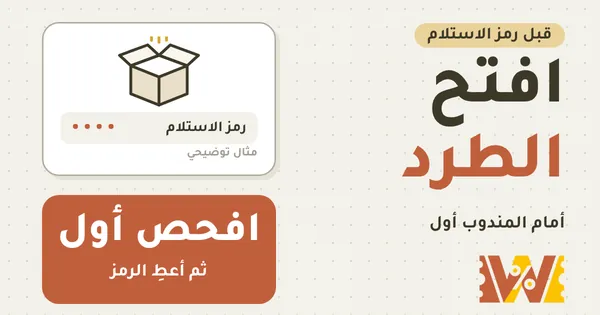
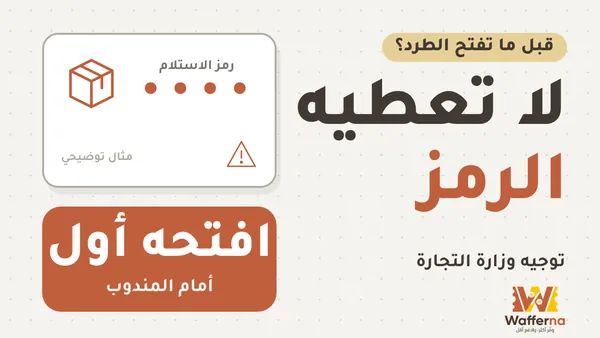
فيديو فتح الطرد: الغلاف الأصلي من القناة + مدة الفيديو (دقيقة)
Claude-Session: https://claude.ai/code/session_012yD6CvvQCGPrrAZAfyCBR5

diff --git a/videos.html b/videos.html
@@ -36,7 +36,7 @@ try{if(localStorage.getItem('wf_consent')==='1')wfConsentLoad()}catch(e){}
 <link rel="stylesheet" href="style.css?v=31">
 <script type="application/ld+json">{"@context": "https://schema.org", "@type": "CollectionPage", "name": "فيديوهات وفّرنا", "url": "https://wafferna.com/videos.html", "inLanguage": "ar", "description": "فيديوهات عربية قصيرة تشرح الجمارك والضريبة في الشراء من الخارج، والخصومات الوهمية، وعدّاد الجمعة البيضاء، والتجارب المجانية.", "mainEntity": {"@type": "ItemList", "itemListElement": [{"@type": "ListItem", "position": 1, "name": "افتح الطرد قبل ما تعطي المندوب رمز الاستلام", "url": "https://wafferna.com/video-open-parcel-before-code.html"}, {"@type": "ListItem", "position": 2, "name": "تقسيط تابي وتمارا: 100 ريال بس؟ شوفوا المجموع", "url": "https://wafferna.com/video-tabby-tamara.html"}, {"@type": "ListItem", "position": 3, "name": "طلبية 11.11 بـ230 ريال… ودفعت 282! احسب الجمارك والضريبة قبل لا تشتري", "url": "https://wafferna.com/video-1111-hidden-costs.html"}, {"@type": "ListItem", "position": 4, "name": "عدّاد الجمعة البيضاء يضحك عليك؟ قاعدة الـ24 ساعة قبل لا تشتري", "url": "https://wafferna.com/video-24h-rule.html"}, {"@type": "ListItem", "position": 5, "name": "انخصم مني فلوس على تجربة «مجانية»! وهذا اللي صار", "url": "https://wafferna.com/video-free-trial.html"}, {"@type": "ListItem", "position": 6, "name": "خصم وهمي في الجمعة البيضاء؟ 3 خطوات تكشفه", "url": "https://wafferna.com/video-fake-friday-discount.html"}, {"@type": "ListItem", "position": 7, "name": "ليش المنتج الرخيص يكلّفك أكثر؟ (مثال الطابعة)", "url": "https://wafferna.com/video-cheap-product.html"}, {"@type": "ListItem", "position": 8, "name": "ثانية! قبل ما تدفع: 3 أشياء تفرق", "url": "https://wafferna.com/video-before-you-pay.html"}, {"@type": "ListItem", "position": 9, "name": "حيل المتاجر اللي تخليك تشتري أكثر: دخلت أشتري شاحن وطلعت بثلاثة", "url": "https://wafferna.com/video-store-tricks.html"}, {"@type": "ListItem", "position": 10, "name": "كيف اعرف المتجر موثوق ولا وهمي؟ 3 علامات قبل الجمعة البيضاء", "url": "https://wafferna.com/video-trusted-store.html"}, {"@type": "ListItem", "position": 11, "name": "كيف اعرف الرابط مزيف؟ 3 فحوصات قبل ما تدفع", "url": "https://wafferna.com/video-fake-link-check.html"}]}}</script>
 <script type="application/ld+json">{"@context": "https://schema.org", "@type": "BreadcrumbList", "itemListElement": [{"@type": "ListItem", "position": 1, "name": "الرئيسية", "item": "https://wafferna.com/"}, {"@type": "ListItem", "position": 2, "name": "فيديوهات وفّرنا", "item": "https://wafferna.com/videos.html"}]}</script>
-<script type="application/ld+json">{"@context": "https://schema.org", "@type": "VideoObject", "name": "افتح الطرد قبل ما تعطي المندوب رمز الاستلام", "description": "افتح الطرد أمام المندوب قبل ما تعطيه رمز الاستلام، وتأكد أن الشحنة سليمة ومطابقة لطلبك. إذا فيه عيب أو عدم مطابقة يحق لك رفض الاستلام، حسب توجيه وزارة التجارة. القصة في الفيديو توضيحية.", "thumbnailUrl": ["https://wafferna.com/covers/video-open-parcel.jpg"], "uploadDate": "2026-11-12", "inLanguage": "ar", "embedUrl": "https://www.youtube-nocookie.com/embed/NFncZLuHPRs", "contentUrl": "https://www.youtube.com/watch?v=NFncZLuHPRs", "publisher": {"@type": "Organization", "name": "Wafferna"}, "keywords": "فتح الطرد قبل رمز الاستلام, رمز الاستلام للمندوب, فحص الشحنة قبل الاستلام, رفض استلام الشحنة, حقوق المستهلك في التوصيل, وزارة التجارة شركات الشحن"}</script>
+<script type="application/ld+json">{"@context": "https://schema.org", "@type": "VideoObject", "name": "افتح الطرد قبل ما تعطي المندوب رمز الاستلام", "description": "افتح الطرد أمام المندوب قبل ما تعطيه رمز الاستلام، وتأكد أن الشحنة سليمة ومطابقة لطلبك. إذا فيه عيب أو عدم مطابقة يحق لك رفض الاستلام، حسب توجيه وزارة التجارة. القصة في الفيديو توضيحية.", "thumbnailUrl": ["https://wafferna.com/covers/video-open-parcel.jpg"], "uploadDate": "2026-11-12", "duration": "PT1M", "inLanguage": "ar", "embedUrl": "https://www.youtube-nocookie.com/embed/NFncZLuHPRs", "contentUrl": "https://www.youtube.com/watch?v=NFncZLuHPRs", "publisher": {"@type": "Organization", "name": "Wafferna"}, "keywords": "فتح الطرد قبل رمز الاستلام, رمز الاستلام للمندوب, فحص الشحنة قبل الاستلام, رفض استلام الشحنة, حقوق المستهلك في التوصيل, وزارة التجارة شركات الشحن"}</script>
 <script type="application/ld+json">{"@context": "https://schema.org", "@type": "VideoObject", "name": "تقسيط تابي وتمارا: 100 ريال بس؟ شوفوا المجموع", "description": "تقسيط تابي وتمارا يقسّم السعر على 4، والقسط يبان صغيراً. لكن لما تقسّطون أكثر من غرض، الأقساط تتجمع كل شهر. مثال: كيبورد وماوس وشاشة مجموع أقساطها 350 ريال شهرياً، و3 أشياء قبل ما تقسّطون. الأرقام مثال توضيحي.", "thumbnailUrl": ["https://wafferna.com/covers/video-bnpl-total.jpg"], "uploadDate": "2026-11-06T18:00:00+03:00", "duration": "PT1M15S", "inLanguage": "ar", "embedUrl": "https://www.youtube-nocookie.com/embed/MzkIcQkA8LA", "contentUrl": "https://www.youtube.com/watch?v=MzkIcQkA8LA", "publisher": {"@type": "Organization", "name": "Wafferna"}}</script>
 <script type="application/ld+json">{"@context": "https://schema.org", "@type": "VideoObject", "name": "طلبية 11.11 بـ230 ريال… ودفعت 282! احسب الجمارك والضريبة قبل لا تشتري", "description": "طلبت من متجر خارجي في 11.11 وكنت متأكد إني بدفع 230 ريال… وطلع الإجمالي 282. يشرح الفيديو ليش تنضاف ضريبة القيمة المضافة ورسوم المعالجة على الشحن الدولي، وكيف تحسبها قبل الدفع. الأرقام مثال توضيحي.", "thumbnailUrl": ["https://wafferna.com/covers/video-1111-hidden-costs.jpg"], "uploadDate": "2026-11-01T12:00:00+03:00", "duration": "PT1M14S", "inLanguage": "ar", "embedUrl": "https://www.youtube-nocookie.com/embed/P7RbY8381D4", "contentUrl": "https://www.youtube.com/watch?v=P7RbY8381D4", "keywords": "11.11, جمارك الشحن الدولي, ضريبة الشراء من علي اكسبرس, حاسبة الجمارك, رسوم المعالجة", "publisher": {"@type": "Organization", "name": "Wafferna"}}</script>
 <script type="application/ld+json">{"@context": "https://schema.org", "@type": "VideoObject", "name": "عدّاد الجمعة البيضاء يضحك عليك؟ قاعدة الـ24 ساعة قبل لا تشتري", "description": "العدّاد التنازلي في عروض الجمعة البيضاء يضغط عليك تشتري بسرعة، وهو لا يعني دائماً أن العرض سينتهي فعلاً. يشرح الفيديو قاعدة الـ24 ساعة: أجّل قرار الشراء يوماً وقارن السعر قبل لا تدفع.", "thumbnailUrl": ["https://wafferna.com/covers/video-24h-rule.jpg"], "uploadDate": "2026-11-02T12:00:00+03:00", "duration": "PT58S", "inLanguage": "ar", "embedUrl": "https://www.youtube-nocookie.com/embed/w4xvbnuEJbs", "contentUrl": "https://www.youtube.com/watch?v=w4xvbnuEJbs", "keywords": "الجمعة البيضاء, عداد تنازلي, عروض وهمية, قاعدة 24 ساعة, التسوق الذكي", "publisher": {"@type": "Organization", "name": "Wafferna"}}</script>
@@ -82,9 +82,9 @@ try{if(localStorage.getItem('wf_consent')==='1')wfConsentLoad()}catch(e){}
   <div class="vgrid">
   <section class="vsec vcard vfeature">
   <div class="vid" data-id="NFncZLuHPRs" data-t="افتح الطرد قبل ما تعطي المندوب رمز الاستلام">
-    <button type="button" class="vid-btn" aria-label="تشغيل الفيديو: افتح الطرد قبل ما تعطي المندوب رمز الاستلام"><img src="covers/video-open-parcel-600.webp" srcset="covers/video-open-parcel-600.webp 600w, covers/video-open-parcel-800.webp 800w, covers/video-open-parcel-1000.webp 1000w" sizes="(max-width:760px) 92vw, 728px" width="1200" height="630" alt="غلاف فيديو: افتح الطرد أمام المندوب وافحصه أول ثم أعطِ رمز الاستلام" fetchpriority="high" decoding="async"><span class="vid-play" aria-hidden="true"></span></button>
+    <button type="button" class="vid-btn" aria-label="تشغيل الفيديو: افتح الطرد قبل ما تعطي المندوب رمز الاستلام"><img src="covers/video-open-parcel-600.webp" srcset="covers/video-open-parcel-600.webp 600w, covers/video-open-parcel-800.webp 800w, covers/video-open-parcel-1000.webp 1000w" sizes="(max-width:760px) 92vw, 728px" width="1280" height="720" alt="غلاف فيديو: لا تعطيه رمز الاستلام قبل ما تفتح الطرد، افتحه أول أمام المندوب، توجيه وزارة التجارة" fetchpriority="high" decoding="async"><span class="vid-play" aria-hidden="true"></span></button>
   </div>
-    <div class="vbody"><span class="tag">فيديو · جديد</span><h2>افتح الطرد قبل ما تعطي المندوب رمز الاستلام</h2></div>
+    <div class="vbody"><span class="tag">فيديو · دقيقة</span><h2>افتح الطرد قبل ما تعطي المندوب رمز الاستلام</h2></div>
     <div class="vstub"><p class="note"><a href="https://www.youtube.com/watch?v=NFncZLuHPRs" rel="noopener" target="_blank">شاهده على يوتيوب</a>.</p></div>
     <a class="vlink" href="video-open-parcel-before-code.html">الملخص والروابط</a>
   </section>

diff --git a/video-open-parcel-before-code.html b/video-open-parcel-before-code.html
@@ -43,7 +43,7 @@ try{if(localStorage.getItem('wf_consent')==='1')wfConsentLoad()}catch(e){}
 <meta property="og:image" content="https://wafferna.com/covers/video-open-parcel.jpg">
 <meta property="og:image:width" content="1200">
 <meta property="og:image:height" content="630">
-<script type="application/ld+json">{"@context": "https://schema.org", "@type": "VideoObject", "name": "افتح الطرد قبل ما تعطي المندوب رمز الاستلام", "description": "افتح الطرد أمام المندوب قبل ما تعطيه رمز الاستلام، وتأكد أن الشحنة سليمة ومطابقة لطلبك. إذا فيه عيب أو عدم مطابقة يحق لك رفض الاستلام، حسب توجيه وزارة التجارة. القصة في الفيديو توضيحية.", "thumbnailUrl": ["https://wafferna.com/covers/video-open-parcel.jpg"], "uploadDate": "2026-11-12", "inLanguage": "ar", "embedUrl": "https://www.youtube-nocookie.com/embed/NFncZLuHPRs", "contentUrl": "https://www.youtube.com/watch?v=NFncZLuHPRs", "publisher": {"@type": "Organization", "name": "Wafferna"}, "keywords": "فتح الطرد قبل رمز الاستلام, رمز الاستلام للمندوب, فحص الشحنة قبل الاستلام, رفض استلام الشحنة, حقوق المستهلك في التوصيل, وزارة التجارة شركات الشحن", "url": "https://wafferna.com/video-open-parcel-before-code.html"}</script>
+<script type="application/ld+json">{"@context": "https://schema.org", "@type": "VideoObject", "name": "افتح الطرد قبل ما تعطي المندوب رمز الاستلام", "description": "افتح الطرد أمام المندوب قبل ما تعطيه رمز الاستلام، وتأكد أن الشحنة سليمة ومطابقة لطلبك. إذا فيه عيب أو عدم مطابقة يحق لك رفض الاستلام، حسب توجيه وزارة التجارة. القصة في الفيديو توضيحية.", "thumbnailUrl": ["https://wafferna.com/covers/video-open-parcel.jpg"], "uploadDate": "2026-11-12", "duration": "PT1M", "inLanguage": "ar", "embedUrl": "https://www.youtube-nocookie.com/embed/NFncZLuHPRs", "contentUrl": "https://www.youtube.com/watch?v=NFncZLuHPRs", "publisher": {"@type": "Organization", "name": "Wafferna"}, "keywords": "فتح الطرد قبل رمز الاستلام, رمز الاستلام للمندوب, فحص الشحنة قبل الاستلام, رفض استلام الشحنة, حقوق المستهلك في التوصيل, وزارة التجارة شركات الشحن", "url": "https://wafferna.com/video-open-parcel-before-code.html"}</script>
 <script type="application/ld+json">{"@context": "https://schema.org", "@type": "BreadcrumbList", "itemListElement": [{"@type": "ListItem", "position": 1, "name": "الرئيسية", "item": "https://wafferna.com/"}, {"@type": "ListItem", "position": 2, "name": "فيديوهات وفّرنا", "item": "https://wafferna.com/videos.html"}, {"@type": "ListItem", "position": 3, "name": "افتح الطرد قبل ما تعطي المندوب رمز الاستلام", "item": "https://wafferna.com/video-open-parcel-before-code.html"}]}</script>
 <style>.vid{position:relative;aspect-ratio:16/9;border-radius:18px;overflow:hidden;background:#E9DFC9;margin-top:14px;border:1px solid var(--line)}.vid-btn,.vid iframe{position:absolute;inset:0;width:100%;height:100%;border:0;padding:0;background:none;cursor:pointer}.vid-btn img{width:100%;height:100%;object-fit:cover;display:block}.vid-play{position:absolute;left:50%;top:50%;width:76px;height:76px;margin:-38px 0 0 -38px;border-radius:50%;background:#C15F3C;box-shadow:0 8px 24px rgba(61,57,41,.35)}.vid-play:after{content:"";position:absolute;left:30px;top:22px;border-style:solid;border-width:16px 0 16px 26px;border-color:transparent transparent transparent #EEECE2}.vid-btn:focus-visible{outline:3px solid #C15F3C;outline-offset:-3px}.vp-sum{background:var(--card);border:1px solid var(--line);border-radius:20px;padding:6px 20px 16px;margin-top:22px}.vp-sum h2{margin-top:14px}.srcs a{display:inline-block;padding:10px 0;min-height:44px;line-height:24px}.srcs ul{margin:0;padding-inline-start:20px}.vp-more{display:grid;grid-template-columns:repeat(3,minmax(0,1fr));gap:12px;margin-top:12px}.vp-card{display:flex;flex-direction:column;background:#E9DFC9;color:#3D3929;border:1px solid rgba(61,57,41,.14);border-radius:18px;overflow:hidden;text-decoration:none;box-shadow:0 10px 20px -14px rgba(61,57,41,.5)}.vp-card img{width:100%;height:auto;aspect-ratio:16/9;object-fit:cover;display:block}.vp-card b{display:-webkit-box;-webkit-line-clamp:3;-webkit-box-orient:vertical;overflow:hidden;padding:10px 12px 12px;font-size:14px;line-height:1.6}.vp-card:hover{border-color:var(--accent)}.vp-back{display:inline-flex;align-items:center;min-height:48px;margin-top:18px;font-weight:800}@media(max-width:700px){.vp-more{grid-template-columns:1fr}.vp-card{flex-direction:row}.vp-card img{width:40%;aspect-ratio:16/9}.vp-card b{padding:8px 12px;font-size:13.5px}}</style>
 </head>
@@ -78,9 +78,9 @@ try{if(localStorage.getItem('wf_consent')==='1')wfConsentLoad()}catch(e){}
   <h1>افتح الطرد قبل ما تعطي المندوب رمز الاستلام</h1>
   <p class="meta">فريق وفّرنا · فيديو قصير · آخر تحديث: 12 نوفمبر 2026</p>
   <div class="vid" data-id="NFncZLuHPRs" data-t="افتح الطرد قبل ما تعطي المندوب رمز الاستلام">
-    <button type="button" class="vid-btn" aria-label="تشغيل الفيديو: افتح الطرد قبل ما تعطي المندوب رمز الاستلام"><img src="/covers/video-open-parcel-600.webp" srcset="/covers/video-open-parcel-600.webp 600w, /covers/video-open-parcel-800.webp 800w, /covers/video-open-parcel-1000.webp 1000w" sizes="(max-width:760px) 92vw, 728px" width="1200" height="630" alt="غلاف فيديو: افتح الطرد أمام المندوب وافحصه أول ثم أعطِ رمز الاستلام" fetchpriority="high" decoding="async"><span class="vid-play" aria-hidden="true"></span></button>
+    <button type="button" class="vid-btn" aria-label="تشغيل الفيديو: افتح الطرد قبل ما تعطي المندوب رمز الاستلام"><img src="/covers/video-open-parcel-600.webp" srcset="/covers/video-open-parcel-600.webp 600w, /covers/video-open-parcel-800.webp 800w, /covers/video-open-parcel-1000.webp 1000w" sizes="(max-width:760px) 92vw, 728px" width="1280" height="720" alt="غلاف فيديو: لا تعطيه رمز الاستلام قبل ما تفتح الطرد، افتحه أول أمام المندوب، توجيه وزارة التجارة" fetchpriority="high" decoding="async"><span class="vid-play" aria-hidden="true"></span></button>
   </div>
-  <p class="note"><a href="https://www.youtube.com/watch?v=NFncZLuHPRs" rel="noopener" target="_blank">شاهده على يوتيوب</a>.</p>
+  <p class="note">مدة الفيديو: دقيقة. <a href="https://www.youtube.com/watch?v=NFncZLuHPRs" rel="noopener" target="_blank">شاهده على يوتيوب</a>.</p>
   <section class="vp-sum">
   <h2>ملخص الفيديو</h2>
   <p>رمز الاستلام اللي يطلبه المندوب ليس مجرد رقم: إعطاؤه يعني أنك استلمت طلبك سليماً. لذلك افتح الطرد وافحصه أمام المندوب أولاً. هنا ملخص الفيديو، ومعه ما وجّهت به وزارة التجارة شركات الشحن في مايو 2026.</p>

diff --git a/video-fake-link-check.html b/video-fake-link-check.html
@@ -92,7 +92,7 @@ try{if(localStorage.getItem('wf_consent')==='1')wfConsentLoad()}catch(e){}
   <p class="note"><b>اقرأ أكثر:</b> <a href="fake-stores.html">كيف تعرف المتاجر الوهمية</a> · <a href="safe-payment.html">الدفع الآمن</a> · <a href="video-trusted-store.html">فيديو: المتجر موثوق ولا وهمي</a></p>
   </section>
   <h2>فيديوهات أخرى</h2>
-  <div class="vp-more"><a class="vp-card" href="/video-open-parcel-before-code.html"><img src="/covers/video-open-parcel-600.webp" srcset="/covers/video-open-parcel-600.webp 600w, /covers/video-open-parcel-800.webp 800w, /covers/video-open-parcel-1000.webp 1000w" sizes="(max-width:700px) 40vw, 240px" width="1200" height="630" alt="غلاف فيديو: افتح الطرد أمام المندوب وافحصه أول ثم أعطِ رمز الاستلام" loading="lazy" decoding="async"><b>افتح الطرد قبل ما تعطي المندوب رمز الاستلام</b></a><a class="vp-card" href="/video-tabby-tamara.html"><img src="/covers/video-bnpl-total-600.webp" srcset="/covers/video-bnpl-total-600.webp 600w, /covers/video-bnpl-total-800.webp 800w, /covers/video-bnpl-total-1000.webp 1000w" sizes="(max-width:700px) 40vw, 240px" width="1200" height="630" alt="غلاف فيديو: أقساط كيبورد 100 وماوس 50 وشاشة 200 مجموعها 350 ريال كل شهر" loading="lazy" decoding="async"><b>تقسيط تابي وتمارا: 100 ريال بس؟ شوفوا المجموع</b></a><a class="vp-card" href="/video-1111-hidden-costs.html"><img src="/covers/video-1111-hidden-costs-600.webp" srcset="/covers/video-1111-hidden-costs-600.webp 600w, /covers/video-1111-hidden-costs-800.webp 800w, /covers/video-1111-hidden-costs-1000.webp 960w" sizes="(max-width:700px) 40vw, 240px" width="960" height="540" alt="غلاف فيديو: طلبية 11.11 بـ230 ريال… ودفعت 282! احسب الجمارك والضريبة قبل لا تشتري" loading="lazy" decoding="async"><b>طلبية 11.11 بـ230 ريال… ودفعت 282! احسب الجمارك والضريبة قبل لا تشتري</b></a></div>
+  <div class="vp-more"><a class="vp-card" href="/video-open-parcel-before-code.html"><img src="/covers/video-open-parcel-600.webp" srcset="/covers/video-open-parcel-600.webp 600w, /covers/video-open-parcel-800.webp 800w, /covers/video-open-parcel-1000.webp 1000w" sizes="(max-width:700px) 40vw, 240px" width="1280" height="720" alt="غلاف فيديو: لا تعطيه رمز الاستلام قبل ما تفتح الطرد، افتحه أول أمام المندوب، توجيه وزارة التجارة" loading="lazy" decoding="async"><b>افتح الطرد قبل ما تعطي المندوب رمز الاستلام</b></a><a class="vp-card" href="/video-tabby-tamara.html"><img src="/covers/video-bnpl-total-600.webp" srcset="/covers/video-bnpl-total-600.webp 600w, /covers/video-bnpl-total-800.webp 800w, /covers/video-bnpl-total-1000.webp 1000w" sizes="(max-width:700px) 40vw, 240px" width="1200" height="630" alt="غلاف فيديو: أقساط كيبورد 100 وماوس 50 وشاشة 200 مجموعها 350 ريال كل شهر" loading="lazy" decoding="async"><b>تقسيط تابي وتمارا: 100 ريال بس؟ شوفوا المجموع</b></a><a class="vp-card" href="/video-1111-hidden-costs.html"><img src="/covers/video-1111-hidden-costs-600.webp" srcset="/covers/video-1111-hidden-costs-600.webp 600w, /covers/video-1111-hidden-costs-800.webp 800w, /covers/video-1111-hidden-costs-1000.webp 960w" sizes="(max-width:700px) 40vw, 240px" width="960" height="540" alt="غلاف فيديو: طلبية 11.11 بـ230 ريال… ودفعت 282! احسب الجمارك والضريبة قبل لا تشتري" loading="lazy" decoding="async"><b>طلبية 11.11 بـ230 ريال… ودفعت 282! احسب الجمارك والضريبة قبل لا تشتري</b></a></div>
   <a class="vp-back" href="/videos.html">← كل الفيديوهات</a>
 </main>
 <footer>

diff --git a/video-trusted-store.html b/video-trusted-store.html
@@ -92,7 +92,7 @@ try{if(localStorage.getItem('wf_consent')==='1')wfConsentLoad()}catch(e){}
   <p class="note"><b>اقرأ أكثر:</b> <a href="safe-payment.html">الدفع الآمن</a> · <a href="white-friday-11-11-2026.html">دليل الجمعة البيضاء</a> · <a href="video-open-parcel-before-code.html">فيديو: افتح الطرد قبل رمز الاستلام</a></p>
   </section>
   <h2>فيديوهات أخرى</h2>
-  <div class="vp-more"><a class="vp-card" href="/video-fake-link-check.html"><img src="/covers/video-fake-link-check-600.webp" srcset="/covers/video-fake-link-check-600.webp 600w, /covers/video-fake-link-check-800.webp 800w, /covers/video-fake-link-check-1000.webp 1000w" sizes="(max-width:700px) 40vw, 240px" width="1280" height="720" alt="غلاف فيديو: رابط حقيقي my-shop.com ورابط مزيف my-shpo.com، لا تضغط قبل ما تفحص" loading="lazy" decoding="async"><b>كيف اعرف الرابط مزيف؟ 3 فحوصات قبل ما تدفع</b></a><a class="vp-card" href="/video-open-parcel-before-code.html"><img src="/covers/video-open-parcel-600.webp" srcset="/covers/video-open-parcel-600.webp 600w, /covers/video-open-parcel-800.webp 800w, /covers/video-open-parcel-1000.webp 1000w" sizes="(max-width:700px) 40vw, 240px" width="1200" height="630" alt="غلاف فيديو: افتح الطرد أمام المندوب وافحصه أول ثم أعطِ رمز الاستلام" loading="lazy" decoding="async"><b>افتح الطرد قبل ما تعطي المندوب رمز الاستلام</b></a><a class="vp-card" href="/video-tabby-tamara.html"><img src="/covers/video-bnpl-total-600.webp" srcset="/covers/video-bnpl-total-600.webp 600w, /covers/video-bnpl-total-800.webp 800w, /covers/video-bnpl-total-1000.webp 1000w" sizes="(max-width:700px) 40vw, 240px" width="1200" height="630" alt="غلاف فيديو: أقساط كيبورد 100 وماوس 50 وشاشة 200 مجموعها 350 ريال كل شهر" loading="lazy" decoding="async"><b>تقسيط تابي وتمارا: 100 ريال بس؟ شوفوا المجموع</b></a></div>
+  <div class="vp-more"><a class="vp-card" href="/video-fake-link-check.html"><img src="/covers/video-fake-link-check-600.webp" srcset="/covers/video-fake-link-check-600.webp 600w, /covers/video-fake-link-check-800.webp 800w, /covers/video-fake-link-check-1000.webp 1000w" sizes="(max-width:700px) 40vw, 240px" width="1280" height="720" alt="غلاف فيديو: رابط حقيقي my-shop.com ورابط مزيف my-shpo.com، لا تضغط قبل ما تفحص" loading="lazy" decoding="async"><b>كيف اعرف الرابط مزيف؟ 3 فحوصات قبل ما تدفع</b></a><a class="vp-card" href="/video-open-parcel-before-code.html"><img src="/covers/video-open-parcel-600.webp" srcset="/covers/video-open-parcel-600.webp 600w, /covers/video-open-parcel-800.webp 800w, /covers/video-open-parcel-1000.webp 1000w" sizes="(max-width:700px) 40vw, 240px" width="1280" height="720" alt="غلاف فيديو: لا تعطيه رمز الاستلام قبل ما تفتح الطرد، افتحه أول أمام المندوب، توجيه وزارة التجارة" loading="lazy" decoding="async"><b>افتح الطرد قبل ما تعطي المندوب رمز الاستلام</b></a><a class="vp-card" href="/video-tabby-tamara.html"><img src="/covers/video-bnpl-total-600.webp" srcset="/covers/video-bnpl-total-600.webp 600w, /covers/video-bnpl-total-800.webp 800w, /covers/video-bnpl-total-1000.webp 1000w" sizes="(max-width:700px) 40vw, 240px" width="1200" height="630" alt="غلاف فيديو: أقساط كيبورد 100 وماوس 50 وشاشة 200 مجموعها 350 ريال كل شهر" loading="lazy" decoding="async"><b>تقسيط تابي وتمارا: 100 ريال بس؟ شوفوا المجموع</b></a></div>
   <a class="vp-back" href="/videos.html">← كل الفيديوهات</a>
 </main>
 <footer>

diff --git a/video-store-tricks.html b/video-store-tricks.html
@@ -92,7 +92,7 @@ try{if(localStorage.getItem('wf_consent')==='1')wfConsentLoad()}catch(e){}
   <p class="note"><b>اقرأ أكثر:</b> <a href="real-discount.html">كيف تعرف أن الخصم حقيقي</a> · <a href="safe-payment.html">الدفع الآمن</a></p>
   </section>
   <h2>فيديوهات أخرى</h2>
-  <div class="vp-more"><a class="vp-card" href="/video-trusted-store.html"><img src="/covers/video-trusted-store-600.webp" srcset="/covers/video-trusted-store-600.webp 600w, /covers/video-trusted-store-800.webp 800w, /covers/video-trusted-store-1000.webp 960w" sizes="(max-width:700px) 40vw, 240px" width="960" height="540" alt="غلاف فيديو: انتبه من المتاجر الوهمية في الجمعة البيضاء" loading="lazy" decoding="async"><b>كيف اعرف المتجر موثوق ولا وهمي؟ 3 علامات قبل الجمعة البيضاء</b></a><a class="vp-card" href="/video-fake-link-check.html"><img src="/covers/video-fake-link-check-600.webp" srcset="/covers/video-fake-link-check-600.webp 600w, /covers/video-fake-link-check-800.webp 800w, /covers/video-fake-link-check-1000.webp 1000w" sizes="(max-width:700px) 40vw, 240px" width="1280" height="720" alt="غلاف فيديو: رابط حقيقي my-shop.com ورابط مزيف my-shpo.com، لا تضغط قبل ما تفحص" loading="lazy" decoding="async"><b>كيف اعرف الرابط مزيف؟ 3 فحوصات قبل ما تدفع</b></a><a class="vp-card" href="/video-open-parcel-before-code.html"><img src="/covers/video-open-parcel-600.webp" srcset="/covers/video-open-parcel-600.webp 600w, /covers/video-open-parcel-800.webp 800w, /covers/video-open-parcel-1000.webp 1000w" sizes="(max-width:700px) 40vw, 240px" width="1200" height="630" alt="غلاف فيديو: افتح الطرد أمام المندوب وافحصه أول ثم أعطِ رمز الاستلام" loading="lazy" decoding="async"><b>افتح الطرد قبل ما تعطي المندوب رمز الاستلام</b></a></div>
+  <div class="vp-more"><a class="vp-card" href="/video-trusted-store.html"><img src="/covers/video-trusted-store-600.webp" srcset="/covers/video-trusted-store-600.webp 600w, /covers/video-trusted-store-800.webp 800w, /covers/video-trusted-store-1000.webp 960w" sizes="(max-width:700px) 40vw, 240px" width="960" height="540" alt="غلاف فيديو: انتبه من المتاجر الوهمية في الجمعة البيضاء" loading="lazy" decoding="async"><b>كيف اعرف المتجر موثوق ولا وهمي؟ 3 علامات قبل الجمعة البيضاء</b></a><a class="vp-card" href="/video-fake-link-check.html"><img src="/covers/video-fake-link-check-600.webp" srcset="/covers/video-fake-link-check-600.webp 600w, /covers/video-fake-link-check-800.webp 800w, /covers/video-fake-link-check-1000.webp 1000w" sizes="(max-width:700px) 40vw, 240px" width="1280" height="720" alt="غلاف فيديو: رابط حقيقي my-shop.com ورابط مزيف my-shpo.com، لا تضغط قبل ما تفحص" loading="lazy" decoding="async"><b>كيف اعرف الرابط مزيف؟ 3 فحوصات قبل ما تدفع</b></a><a class="vp-card" href="/video-open-parcel-before-code.html"><img src="/covers/video-open-parcel-600.webp" srcset="/covers/video-open-parcel-600.webp 600w, /covers/video-open-parcel-800.webp 800w, /covers/video-open-parcel-1000.webp 1000w" sizes="(max-width:700px) 40vw, 240px" width="1280" height="720" alt="غلاف فيديو: لا تعطيه رمز الاستلام قبل ما تفتح الطرد، افتحه أول أمام المندوب، توجيه وزارة التجارة" loading="lazy" decoding="async"><b>افتح الطرد قبل ما تعطي المندوب رمز الاستلام</b></a></div>
   <a class="vp-back" href="/videos.html">← كل الفيديوهات</a>
 </main>
 <footer>
